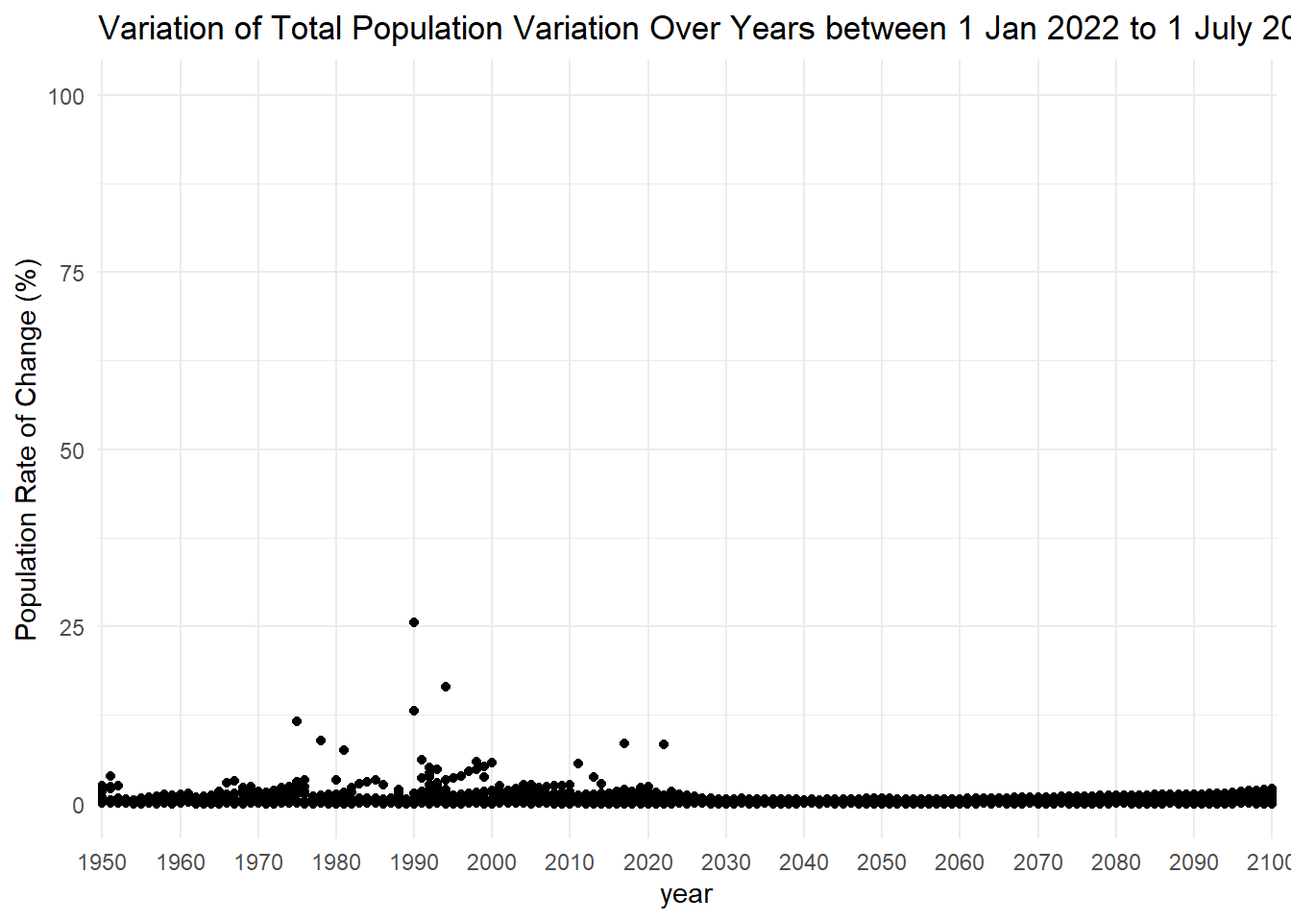
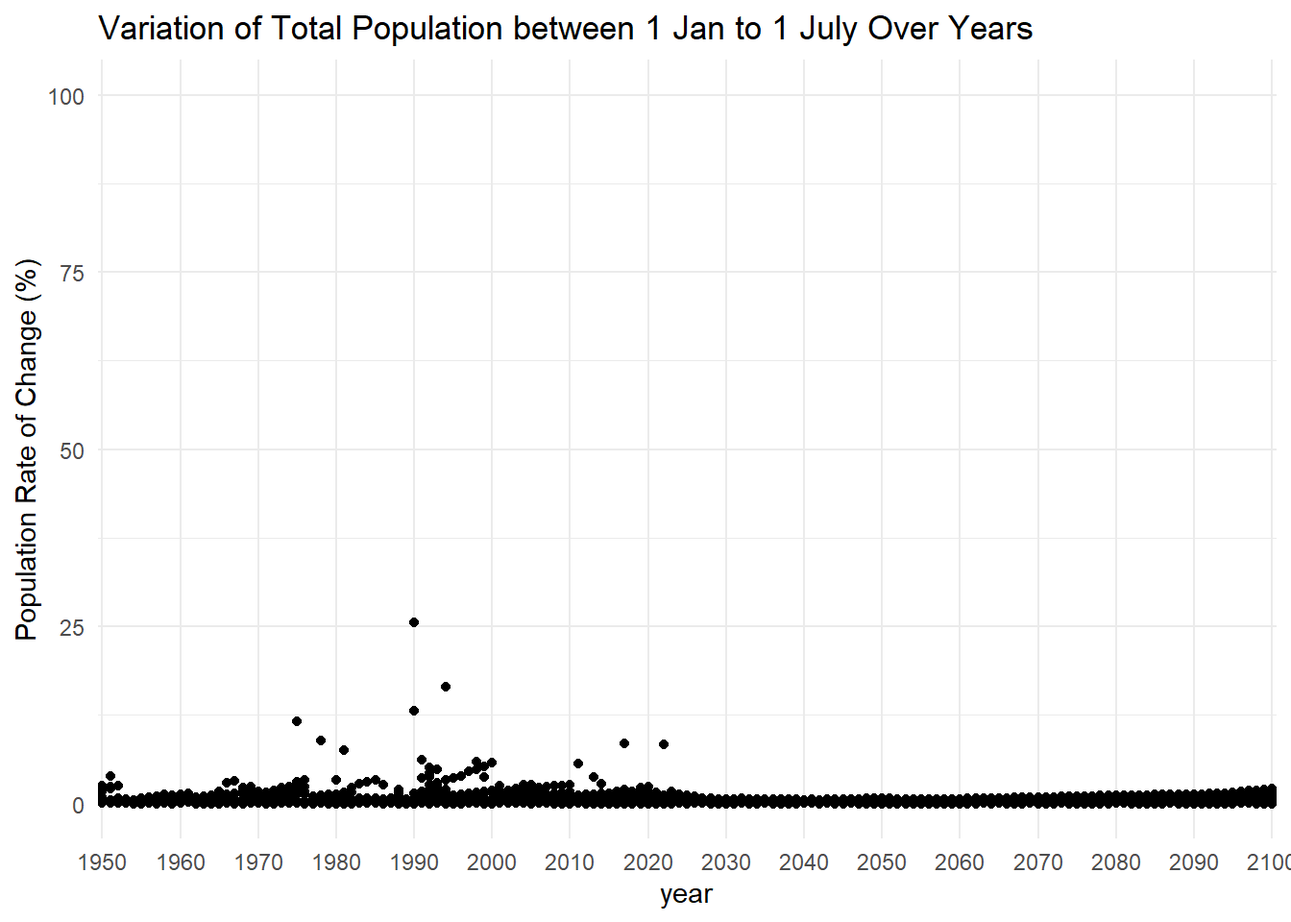
data_cleaning_new_version

Changed region(s): [[0.4062, 0.0, 1.0, 0.0625]]

diff --git a/World Population Prospects.html b/World Population Prospects.html
@@ -101,11 +101,11 @@ pre > code.sourceCode > span > a:first-child::before { text-decoration: underlin
 
 </header>
 
-<section id="quarto" class="level2">
-<h2 class="anchored" data-anchor-id="quarto">Quarto</h2>
-<p>Quarto enables you to weave together content and executable code into a finished document. To learn more about Quarto see <a href="https://quarto.org" class="uri">https://quarto.org</a>.</p>
+<section id="data-cleaning-and-tidying" class="level2">
+<h2 class="anchored" data-anchor-id="data-cleaning-and-tidying">Data Cleaning and Tidying</h2>
+<p>In order to start coding for our project we need to load the necessary libraries for the project, including data manipulation (<strong><code>tidyverse</code></strong>, <strong><code>dplyr</code></strong>, <strong><code>purrr</code></strong>), data visualization (<strong><code>ggplot2</code></strong>), and data cleaning (<strong><code>janitor</code></strong>).</p>
 <div class="cell">
-<div class="sourceCode cell-code" id="cb1"><pre class="sourceCode r code-with-copy"><code class="sourceCode r"><span id="cb1-1"><a href="#cb1-1" aria-hidden="true" tabindex="-1"></a><span class="fu">library</span>(tidyverse)</span></code><button title="Copy to Clipboard" class="code-copy-button"><i class="bi"></i></button></pre></div>
+<div class="sourceCode cell-code" id="cb1"><pre class="sourceCode r code-with-copy"><code class="sourceCode r"><span id="cb1-1"><a href="#cb1-1" aria-hidden="true" tabindex="-1"></a><span class="fu">library</span>(tidyverse) <span class="co"># Comprehensive data manipulation and visualization tools</span></span></code><button title="Copy to Clipboard" class="code-copy-button"><i class="bi"></i></button></pre></div>
 <div class="cell-output cell-output-stderr">
 <pre><code>── Attaching core tidyverse packages ──────────────────────── tidyverse 2.0.0 ──
 ✔ dplyr     1.1.3     ✔ readr     2.1.4
@@ -118,8 +118,8 @@ pre > code.sourceCode > span > a:first-child::before { text-decoration: underlin
 ✖ dplyr::lag()    masks stats::lag()
 ℹ Use the conflicted package (&lt;http://conflicted.r-lib.org/&gt;) to force all conflicts to become errors</code></pre>
 </div>
-<div class="sourceCode cell-code" id="cb3"><pre class="sourceCode r code-with-copy"><code class="sourceCode r"><span id="cb3-1"><a href="#cb3-1" aria-hidden="true" tabindex="-1"></a><span class="fu">library</span>(readxl)</span>
-<span id="cb3-2"><a href="#cb3-2" aria-hidden="true" tabindex="-1"></a><span class="fu">library</span>(curl)</span></code><button title="Copy to Clipboard" class="code-copy-button"><i class="bi"></i></button></pre></div>
+<div class="sourceCode cell-code" id="cb3"><pre class="sourceCode r code-with-copy"><code class="sourceCode r"><span id="cb3-1"><a href="#cb3-1" aria-hidden="true" tabindex="-1"></a><span class="fu">library</span>(readxl)    <span class="co"># Reading Excel files into R</span></span>
+<span id="cb3-2"><a href="#cb3-2" aria-hidden="true" tabindex="-1"></a><span class="fu">library</span>(curl)      <span class="co"># Downloading files from the internet</span></span></code><button title="Copy to Clipboard" class="code-copy-button"><i class="bi"></i></button></pre></div>
 <div class="cell-output cell-output-stderr">
 <pre><code>Warning: package 'curl' was built under R version 4.3.2</code></pre>
 </div>
@@ -132,10 +132,10 @@ The following object is masked from 'package:readr':
 
     parse_date</code></pre>
 </div>
-<div class="sourceCode cell-code" id="cb6"><pre class="sourceCode r code-with-copy"><code class="sourceCode r"><span id="cb6-1"><a href="#cb6-1" aria-hidden="true" tabindex="-1"></a><span class="fu">library</span>(dplyr)</span>
-<span id="cb6-2"><a href="#cb6-2" aria-hidden="true" tabindex="-1"></a><span class="fu">library</span>(purrr)</span>
-<span id="cb6-3"><a href="#cb6-3" aria-hidden="true" tabindex="-1"></a><span class="fu">library</span>(stringr)</span>
-<span id="cb6-4"><a href="#cb6-4" aria-hidden="true" tabindex="-1"></a><span class="fu">library</span>(janitor)</span></code><button title="Copy to Clipboard" class="code-copy-button"><i class="bi"></i></button></pre></div>
+<div class="sourceCode cell-code" id="cb6"><pre class="sourceCode r code-with-copy"><code class="sourceCode r"><span id="cb6-1"><a href="#cb6-1" aria-hidden="true" tabindex="-1"></a><span class="fu">library</span>(dplyr)     <span class="co"># Data manipulation toolkit</span></span>
+<span id="cb6-2"><a href="#cb6-2" aria-hidden="true" tabindex="-1"></a><span class="fu">library</span>(purrr)     <span class="co"># Functional programming tools</span></span>
+<span id="cb6-3"><a href="#cb6-3" aria-hidden="true" tabindex="-1"></a><span class="fu">library</span>(stringr)   <span class="co"># String manipulation functions</span></span>
+<span id="cb6-4"><a href="#cb6-4" aria-hidden="true" tabindex="-1"></a><span class="fu">library</span>(janitor)   <span class="co"># Tools for data cleaning</span></span></code><button title="Copy to Clipboard" class="code-copy-button"><i class="bi"></i></button></pre></div>
 <div class="cell-output cell-output-stderr">
 <pre><code>
 Attaching package: 'janitor'
@@ -144,8 +144,9 @@ The following objects are masked from 'package:stats':
 
     chisq.test, fisher.test</code></pre>
 </div>
-<div class="sourceCode cell-code" id="cb8"><pre class="sourceCode r code-with-copy"><code class="sourceCode r"><span id="cb8-1"><a href="#cb8-1" aria-hidden="true" tabindex="-1"></a><span class="fu">library</span>(ggplot2)</span></code><button title="Copy to Clipboard" class="code-copy-button"><i class="bi"></i></button></pre></div>
+<div class="sourceCode cell-code" id="cb8"><pre class="sourceCode r code-with-copy"><code class="sourceCode r"><span id="cb8-1"><a href="#cb8-1" aria-hidden="true" tabindex="-1"></a><span class="fu">library</span>(ggplot2)   <span class="co"># Data visualization using Grammar of Graphics</span></span></code><button title="Copy to Clipboard" class="code-copy-button"><i class="bi"></i></button></pre></div>
 </div>
+<p>The demographic data is obtained from an Excel file accessible via a specified URL. The file is downloaded utilizing the <strong>curl_download</strong> function, and the sheets of interest are identified.</p>
 <div class="cell">
 <div class="sourceCode cell-code" id="cb9"><pre class="sourceCode r code-with-copy"><code class="sourceCode r"><span id="cb9-1"><a href="#cb9-1" aria-hidden="true" tabindex="-1"></a><span class="co"># Specify the web address of the Excel file</span></span>
 <span id="cb9-2"><a href="#cb9-2" aria-hidden="true" tabindex="-1"></a>url <span class="ot">&lt;-</span> <span class="st">"https://population.un.org/wpp/Download/Files/1_Indicators%20(Standard)/EXCEL_FILES/1_General/WPP2022_GEN_F01_DEMOGRAPHIC_INDICATORS_COMPACT_REV1.xlsx"</span></span>
@@ -154,6 +155,7 @@ The following objects are masked from 'package:stats':
 <span id="cb9-5"><a href="#cb9-5" aria-hidden="true" tabindex="-1"></a></span>
 <span id="cb9-6"><a href="#cb9-6" aria-hidden="true" tabindex="-1"></a><span class="fu">curl_download</span>(url, <span class="at">destfile =</span> data)</span></code><button title="Copy to Clipboard" class="code-copy-button"><i class="bi"></i></button></pre></div>
 </div>
+<p><strong>Read_clean</strong>, a custom function, is utilized to extract and clear data from individual sheets. Using <strong>clean_names</strong> and <strong>map_df</strong>, the final data is combined into a single data frame and standardized column names are established.</p>
 <div class="cell">
 <div class="sourceCode cell-code" id="cb10"><pre class="sourceCode r code-with-copy"><code class="sourceCode r"><span id="cb10-1"><a href="#cb10-1" aria-hidden="true" tabindex="-1"></a><span class="co"># Downloaded sheets</span></span>
 <span id="cb10-2"><a href="#cb10-2" aria-hidden="true" tabindex="-1"></a>sheets <span class="ot">&lt;-</span> <span class="fu">excel_sheets</span>(data)</span>
@@ -163,39 +165,39 @@ The following objects are masked from 'package:stats':
 <span id="cb10-6"><a href="#cb10-6" aria-hidden="true" tabindex="-1"></a></span>
 <span id="cb10-7"><a href="#cb10-7" aria-hidden="true" tabindex="-1"></a><span class="co"># Function to read and clean data from a sheet</span></span>
 <span id="cb10-8"><a href="#cb10-8" aria-hidden="true" tabindex="-1"></a>read_clean <span class="ot">&lt;-</span> <span class="cf">function</span>(file_path, sheet) {</span>
-<span id="cb10-9"><a href="#cb10-9" aria-hidden="true" tabindex="-1"></a>  <span class="fu">read_excel</span>(file_path, <span class="at">sheet =</span> sheet, <span class="at">skip =</span> <span class="dv">16</span>, <span class="at">col_types =</span> <span class="st">"text"</span>) <span class="sc">|&gt;</span> </span>
-<span id="cb10-10"><a href="#cb10-10" aria-hidden="true" tabindex="-1"></a>    <span class="fu">mutate</span>(<span class="at">type =</span> sheet)</span>
-<span id="cb10-11"><a href="#cb10-11" aria-hidden="true" tabindex="-1"></a>}</span>
-<span id="cb10-12"><a href="#cb10-12" aria-hidden="true" tabindex="-1"></a></span>
-<span id="cb10-13"><a href="#cb10-13" aria-hidden="true" tabindex="-1"></a><span class="co"># Read and clean selected sheets, then bind them into a single data frame</span></span>
-<span id="cb10-14"><a href="#cb10-14" aria-hidden="true" tabindex="-1"></a>raw_data <span class="ot">&lt;-</span> <span class="fu">map_df</span>(selected_sheets, <span class="sc">~</span><span class="fu">read_clean</span>(data, .)) <span class="sc">|&gt;</span> </span>
-<span id="cb10-15"><a href="#cb10-15" aria-hidden="true" tabindex="-1"></a>  <span class="fu">clean_names</span>()</span></code><button title="Copy to Clipboard" class="code-copy-button"><i class="bi"></i></button></pre></div>
+<span id="cb10-9"><a href="#cb10-9" aria-hidden="true" tabindex="-1"></a>  <span class="fu">read_excel</span>(file_path, <span class="at">sheet =</span> sheet, <span class="at">skip =</span> <span class="dv">16</span>, <span class="at">col_types =</span> <span class="st">"text"</span>)</span>
+<span id="cb10-10"><a href="#cb10-10" aria-hidden="true" tabindex="-1"></a>}</span>
+<span id="cb10-11"><a href="#cb10-11" aria-hidden="true" tabindex="-1"></a></span>
+<span id="cb10-12"><a href="#cb10-12" aria-hidden="true" tabindex="-1"></a><span class="co"># Read and clean selected sheets, then bind them into a single data frame</span></span>
+<span id="cb10-13"><a href="#cb10-13" aria-hidden="true" tabindex="-1"></a>raw_data <span class="ot">&lt;-</span> <span class="fu">map_df</span>(selected_sheets, <span class="sc">~</span><span class="fu">read_clean</span>(data, .)) <span class="sc">|&gt;</span> </span>
+<span id="cb10-14"><a href="#cb10-14" aria-hidden="true" tabindex="-1"></a>  <span class="fu">clean_names</span>()</span></code><button title="Copy to Clipboard" class="code-copy-button"><i class="bi"></i></button></pre></div>
 </div>
+<p>In this stage, we filter out rows with a specific type (‘Label/Separator’).</p>
 <div class="cell">
 <div class="sourceCode cell-code" id="cb11"><pre class="sourceCode r code-with-copy"><code class="sourceCode r"><span id="cb11-1"><a href="#cb11-1" aria-hidden="true" tabindex="-1"></a><span class="co"># Creating a new DataFrame without rows where 'type' is 'Label/Separator'</span></span>
 <span id="cb11-2"><a href="#cb11-2" aria-hidden="true" tabindex="-1"></a>raw_data_wo_ls <span class="ot">&lt;-</span> <span class="fu">subset</span>(raw_data, type <span class="sc">!=</span> <span class="st">"Label/Separator"</span>)</span></code><button title="Copy to Clipboard" class="code-copy-button"><i class="bi"></i></button></pre></div>
 </div>
+<p>We also convert population columns to numeric format and calculate the rate of change between January 1 and July 1 populations. The resulting data frame, <strong><code>sorted_data</code></strong>, is organized by year for further analysis.</p>
 <div class="cell">
 <div class="sourceCode cell-code" id="cb12"><pre class="sourceCode r code-with-copy"><code class="sourceCode r"><span id="cb12-1"><a href="#cb12-1" aria-hidden="true" tabindex="-1"></a>raw_data_wo_ls<span class="sc">$</span>total_population_as_of_1_january_thousands <span class="ot">&lt;-</span> <span class="fu">as.numeric</span>(raw_data_wo_ls<span class="sc">$</span>total_population_as_of_1_january_thousands)</span>
 <span id="cb12-2"><a href="#cb12-2" aria-hidden="true" tabindex="-1"></a>raw_data_wo_ls<span class="sc">$</span>total_population_as_of_1_july_thousands <span class="ot">&lt;-</span> <span class="fu">as.numeric</span>(raw_data_wo_ls<span class="sc">$</span>total_population_as_of_1_july_thousands)</span>
 <span id="cb12-3"><a href="#cb12-3" aria-hidden="true" tabindex="-1"></a></span>
-<span id="cb12-4"><a href="#cb12-4" aria-hidden="true" tabindex="-1"></a></span>
-<span id="cb12-5"><a href="#cb12-5" aria-hidden="true" tabindex="-1"></a></span>
-<span id="cb12-6"><a href="#cb12-6" aria-hidden="true" tabindex="-1"></a><span class="co"># Group by year and arrange by year</span></span>
-<span id="cb12-7"><a href="#cb12-7" aria-hidden="true" tabindex="-1"></a>sorted_data <span class="ot">&lt;-</span> raw_data_wo_ls <span class="sc">|&gt;</span> </span>
-<span id="cb12-8"><a href="#cb12-8" aria-hidden="true" tabindex="-1"></a>  <span class="fu">mutate</span>(<span class="at">rate_of_change =</span> ((total_population_as_of_1_january_thousands <span class="sc">-</span> total_population_as_of_1_july_thousands) <span class="sc">/</span> total_population_as_of_1_january_thousands) <span class="sc">*</span> <span class="dv">100</span>) <span class="sc">|&gt;</span>  </span>
-<span id="cb12-9"><a href="#cb12-9" aria-hidden="true" tabindex="-1"></a>  <span class="fu">select</span>(rate_of_change, <span class="fu">everything</span>()) <span class="sc">|&gt;</span> </span>
-<span id="cb12-10"><a href="#cb12-10" aria-hidden="true" tabindex="-1"></a>  <span class="fu">group_by</span>(year) <span class="sc">|&gt;</span> </span>
-<span id="cb12-11"><a href="#cb12-11" aria-hidden="true" tabindex="-1"></a>  <span class="fu">arrange</span>(year) <span class="sc">|&gt;</span> </span>
-<span id="cb12-12"><a href="#cb12-12" aria-hidden="true" tabindex="-1"></a>  <span class="fu">ungroup</span>()</span></code><button title="Copy to Clipboard" class="code-copy-button"><i class="bi"></i></button></pre></div>
+<span id="cb12-4"><a href="#cb12-4" aria-hidden="true" tabindex="-1"></a><span class="co"># Group by year and arrange by year</span></span>
+<span id="cb12-5"><a href="#cb12-5" aria-hidden="true" tabindex="-1"></a>sorted_data <span class="ot">&lt;-</span> raw_data_wo_ls <span class="sc">|&gt;</span> </span>
+<span id="cb12-6"><a href="#cb12-6" aria-hidden="true" tabindex="-1"></a>  <span class="fu">mutate</span>(<span class="at">rate_of_change =</span> ((total_population_as_of_1_january_thousands <span class="sc">-</span> total_population_as_of_1_july_thousands) <span class="sc">/</span> total_population_as_of_1_january_thousands) <span class="sc">*</span> <span class="dv">100</span>) <span class="sc">|&gt;</span>  </span>
+<span id="cb12-7"><a href="#cb12-7" aria-hidden="true" tabindex="-1"></a>  <span class="fu">select</span>(rate_of_change, <span class="fu">everything</span>()) <span class="sc">|&gt;</span> </span>
+<span id="cb12-8"><a href="#cb12-8" aria-hidden="true" tabindex="-1"></a>  <span class="fu">group_by</span>(year) <span class="sc">|&gt;</span> </span>
+<span id="cb12-9"><a href="#cb12-9" aria-hidden="true" tabindex="-1"></a>  <span class="fu">arrange</span>(year) <span class="sc">|&gt;</span> </span>
+<span id="cb12-10"><a href="#cb12-10" aria-hidden="true" tabindex="-1"></a>  <span class="fu">ungroup</span>()</span></code><button title="Copy to Clipboard" class="code-copy-button"><i class="bi"></i></button></pre></div>
 </div>
+<p>To visually explore the variation in the total population rate of change over the years, we use the <strong><code>ggplot2</code></strong> package. A scatter plot is created according to years.</p>
 <div class="cell">
 <div class="sourceCode cell-code" id="cb13"><pre class="sourceCode r code-with-copy"><code class="sourceCode r"><span id="cb13-1"><a href="#cb13-1" aria-hidden="true" tabindex="-1"></a><span class="co"># Create a ggplot with the specified columns</span></span>
 <span id="cb13-2"><a href="#cb13-2" aria-hidden="true" tabindex="-1"></a><span class="fu">ggplot</span>(sorted_data, <span class="fu">aes</span>(<span class="at">x =</span> year, <span class="at">y =</span> rate_of_change)) <span class="sc">+</span></span>
 <span id="cb13-3"><a href="#cb13-3" aria-hidden="true" tabindex="-1"></a>  <span class="fu">geom_point</span>() <span class="sc">+</span></span>
 <span id="cb13-4"><a href="#cb13-4" aria-hidden="true" tabindex="-1"></a>  <span class="fu">scale_y_continuous</span>(<span class="at">name =</span> <span class="st">"Population Rate of Change (%)"</span>, </span>
 <span id="cb13-5"><a href="#cb13-5" aria-hidden="true" tabindex="-1"></a>                     <span class="at">limits =</span> <span class="fu">c</span>(<span class="dv">0</span>, <span class="dv">100</span>))<span class="sc">+</span></span>
-<span id="cb13-6"><a href="#cb13-6" aria-hidden="true" tabindex="-1"></a>  <span class="fu">labs</span>(<span class="at">title =</span> <span class="st">"Variation of Total Population Variation Over Years between 1 Jan 2022 to 1 July 2022"</span>) <span class="sc">+</span></span>
+<span id="cb13-6"><a href="#cb13-6" aria-hidden="true" tabindex="-1"></a>  <span class="fu">labs</span>(<span class="at">title =</span> <span class="st">"Variation of Total Population between 1 Jan to 1 July Over Years"</span>) <span class="sc">+</span></span>
 <span id="cb13-7"><a href="#cb13-7" aria-hidden="true" tabindex="-1"></a>  <span class="fu">theme_minimal</span>()<span class="sc">+</span></span>
 <span id="cb13-8"><a href="#cb13-8" aria-hidden="true" tabindex="-1"></a>  <span class="fu">scale_x_discrete</span>(<span class="at">breaks =</span> <span class="fu">seq</span>(<span class="dv">1950</span>, <span class="dv">2100</span>, <span class="at">by =</span> <span class="dv">10</span>))</span></code><button title="Copy to Clipboard" class="code-copy-button"><i class="bi"></i></button></pre></div>
 <div class="cell-output cell-output-stderr">
@@ -205,6 +207,8 @@ The following objects are masked from 'package:stats':
 <p><img src="World-Population-Prospects_files/figure-html/unnamed-chunk-6-1.png" class="img-fluid" width="672"></p>
 </div>
 </div>
+<p>After an in-depth examination of the percentage variation in populations between January 1 and July 1, it became apparent that, aside from a few outliers, the rate of change across the six time periods is not significantly pronounced. In light of this observation, we proceeded with a data reduction process to streamline our dataset for a more focused analysis. This involved excluding specific columns that were deemed unnecessary for our current analytical objectives.</p>
+<p>This reduction aimed to simplify the dataset, making it more manageable for subsequent analyses while retaining the essential information for our research</p>
 <div class="cell">
 <div class="sourceCode cell-code" id="cb15"><pre class="sourceCode r code-with-copy"><code class="sourceCode r"><span id="cb15-1"><a href="#cb15-1" aria-hidden="true" tabindex="-1"></a><span class="co"># Creating a new DataFrame without specific columns</span></span>
 <span id="cb15-2"><a href="#cb15-2" aria-hidden="true" tabindex="-1"></a>raw_data_reduced <span class="ot">&lt;-</span> raw_data_wo_ls <span class="sc">|&gt;</span> </span>
@@ -216,56 +220,93 @@ The following objects are masked from 'package:stats':
 <span id="cb15-8"><a href="#cb15-8" aria-hidden="true" tabindex="-1"></a>         <span class="sc">-</span>parent_code,</span>
 <span id="cb15-9"><a href="#cb15-9" aria-hidden="true" tabindex="-1"></a>         <span class="sc">-</span>notes,</span>
 <span id="cb15-10"><a href="#cb15-10" aria-hidden="true" tabindex="-1"></a>         <span class="sc">-</span>location_code</span>
-<span id="cb15-11"><a href="#cb15-11" aria-hidden="true" tabindex="-1"></a>         )</span></code><button title="Copy to Clipboard" class="code-copy-button"><i class="bi"></i></button></pre></div>
-</div>
-<div class="cell">
-<div class="sourceCode cell-code" id="cb16"><pre class="sourceCode r code-with-copy"><code class="sourceCode r"><span id="cb16-1"><a href="#cb16-1" aria-hidden="true" tabindex="-1"></a>raw_data_rounded <span class="ot">&lt;-</span> raw_data_reduced <span class="sc">|&gt;</span> </span>
-<span id="cb16-2"><a href="#cb16-2" aria-hidden="true" tabindex="-1"></a>  <span class="fu">mutate_at</span>(<span class="fu">vars</span>(<span class="fu">names</span>(raw_data_reduced)[<span class="dv">4</span><span class="sc">:</span><span class="fu">ncol</span>(raw_data_reduced)]), as.numeric) <span class="sc">|&gt;</span> </span>
-<span id="cb16-3"><a href="#cb16-3" aria-hidden="true" tabindex="-1"></a>  <span class="fu">mutate_at</span>(<span class="fu">vars</span>(<span class="fu">names</span>(raw_data_reduced)[<span class="dv">4</span><span class="sc">:</span><span class="fu">ncol</span>(raw_data_reduced)]), <span class="sc">~</span><span class="fu">round</span>(., <span class="dv">3</span>))</span></code><button title="Copy to Clipboard" class="code-copy-button"><i class="bi"></i></button></pre></div>
-<div class="cell-output cell-output-stderr">
-<pre><code>Warning: There were 50 warnings in `mutate()`.
-The first warning was:
-ℹ In argument: `male_population_as_of_1_july_thousands =
-  .Primitive("as.double")(male_population_as_of_1_july_thousands)`.
-Caused by warning:
-! NAs introduced by coercion
-ℹ Run `dplyr::last_dplyr_warnings()` to see the 49 remaining warnings.</code></pre>
-</div>
-</div>
-<div class="cell">
-<div class="sourceCode cell-code" id="cb18"><pre class="sourceCode r code-with-copy"><code class="sourceCode r"><span id="cb18-1"><a href="#cb18-1" aria-hidden="true" tabindex="-1"></a>total_na_count <span class="ot">&lt;-</span> <span class="fu">sum</span>(<span class="fu">is.na</span>(raw_data))</span>
-<span id="cb18-2"><a href="#cb18-2" aria-hidden="true" tabindex="-1"></a></span>
-<span id="cb18-3"><a href="#cb18-3" aria-hidden="true" tabindex="-1"></a><span class="fu">print</span>(total_na_count)</span></code><button title="Copy to Clipboard" class="code-copy-button"><i class="bi"></i></button></pre></div>
+<span id="cb15-11"><a href="#cb15-11" aria-hidden="true" tabindex="-1"></a>         )</span>
+<span id="cb15-12"><a href="#cb15-12" aria-hidden="true" tabindex="-1"></a></span>
+<span id="cb15-13"><a href="#cb15-13" aria-hidden="true" tabindex="-1"></a>total_na_count <span class="ot">&lt;-</span> <span class="fu">sum</span>(<span class="fu">is.na</span>(raw_data_reduced))</span>
+<span id="cb15-14"><a href="#cb15-14" aria-hidden="true" tabindex="-1"></a></span>
+<span id="cb15-15"><a href="#cb15-15" aria-hidden="true" tabindex="-1"></a><span class="fu">print</span>(total_na_count)</span></code><button title="Copy to Clipboard" class="code-copy-button"><i class="bi"></i></button></pre></div>
 <div class="cell-output cell-output-stdout">
-<pre><code>[1] 47150</code></pre>
-</div>
-<div class="sourceCode cell-code" id="cb20"><pre class="sourceCode r code-with-copy"><code class="sourceCode r"><span id="cb20-1"><a href="#cb20-1" aria-hidden="true" tabindex="-1"></a>raw_data_rounded_2 <span class="ot">&lt;-</span> raw_data_rounded <span class="sc">|&gt;</span> </span>
-<span id="cb20-2"><a href="#cb20-2" aria-hidden="true" tabindex="-1"></a>  <span class="fu">mutate_all</span>(<span class="sc">~</span><span class="fu">ifelse</span>(. <span class="sc">==</span> <span class="st">"..."</span>, <span class="cn">NA</span>, .)) </span>
-<span id="cb20-3"><a href="#cb20-3" aria-hidden="true" tabindex="-1"></a></span>
-<span id="cb20-4"><a href="#cb20-4" aria-hidden="true" tabindex="-1"></a>total_na_count_2 <span class="ot">&lt;-</span> <span class="fu">sum</span>(<span class="fu">is.na</span>(raw_data_rounded_2))</span>
-<span id="cb20-5"><a href="#cb20-5" aria-hidden="true" tabindex="-1"></a></span>
-<span id="cb20-6"><a href="#cb20-6" aria-hidden="true" tabindex="-1"></a><span class="fu">print</span>(total_na_count_2)</span></code><button title="Copy to Clipboard" class="code-copy-button"><i class="bi"></i></button></pre></div>
-<div class="cell-output cell-output-stdout">
-<pre><code>[1] 69314</code></pre>
+<pre><code>[1] 0</code></pre>
 </div>
 </div>
-</section>
-<section id="running-code" class="level2">
-<h2 class="anchored" data-anchor-id="running-code">Running Code</h2>
-<p>When you click the <strong>Render</strong> button a document will be generated that includes both content and the output of embedded code. You can embed code like this:</p>
+<p>Upon initial analysis, the results of the <strong><code>total_na_count</code></strong> indicated the absence of any missing values. However, during the exploration of the scatter plot, a warning surfaced, indicating the presence of rows with missing values. This discrepancy prompted a closer examination of the data quality.</p>
+<p>Further investigation revealed that the missing values were not explicitly defined as ‘NA.’ Instead, an unconventional placeholder, represented by three dots (“…”), was used to indicate missing data in the initial untidy dataset.</p>
+<p>To rectify this issue, we took a two-step approach:</p>
+<ol type="1">
+<li><p><strong>Replacing “…” with NA:</strong> All occurrences of the three dots (“…”) in the dataset were replaced with the standard ‘NA’ representation. This step was crucial for ensuring uniformity and accuracy in identifying missing values across the dataset.</p></li>
+<li><p><strong>Conversion to Numeric:</strong> Subsequently, we converted all related columns with numerical values from character (string) to numeric format. This conversion ensured that the data, now with consistent missing value representation, could be accurately processed and analyzed.</p></li>
+</ol>
 <div class="cell">
-<div class="sourceCode cell-code" id="cb22"><pre class="sourceCode r code-with-copy"><code class="sourceCode r"><span id="cb22-1"><a href="#cb22-1" aria-hidden="true" tabindex="-1"></a><span class="dv">1</span> <span class="sc">+</span> <span class="dv">1</span></span></code><button title="Copy to Clipboard" class="code-copy-button"><i class="bi"></i></button></pre></div>
+<div class="sourceCode cell-code" id="cb17"><pre class="sourceCode r code-with-copy"><code class="sourceCode r"><span id="cb17-1"><a href="#cb17-1" aria-hidden="true" tabindex="-1"></a>raw_data_rounded <span class="ot">&lt;-</span> raw_data_reduced <span class="sc">|&gt;</span> </span>
+<span id="cb17-2"><a href="#cb17-2" aria-hidden="true" tabindex="-1"></a>  <span class="fu">mutate</span>(<span class="fu">across</span>(<span class="fu">everything</span>(), as.character)) <span class="sc">|&gt;</span> </span>
+<span id="cb17-3"><a href="#cb17-3" aria-hidden="true" tabindex="-1"></a>  <span class="fu">mutate_all</span>(<span class="sc">~</span><span class="fu">ifelse</span>(. <span class="sc">==</span> <span class="st">"..."</span>, <span class="cn">NA</span>, .)) <span class="sc">|&gt;</span> </span>
+<span id="cb17-4"><a href="#cb17-4" aria-hidden="true" tabindex="-1"></a>  <span class="fu">mutate_at</span>(<span class="fu">vars</span>(<span class="fu">names</span>(raw_data_reduced)[<span class="dv">4</span><span class="sc">:</span><span class="fu">ncol</span>(raw_data_reduced)]), as.numeric, <span class="sc">~</span><span class="fu">round</span>(., <span class="dv">3</span>)) </span>
+<span id="cb17-5"><a href="#cb17-5" aria-hidden="true" tabindex="-1"></a></span>
+<span id="cb17-6"><a href="#cb17-6" aria-hidden="true" tabindex="-1"></a></span>
+<span id="cb17-7"><a href="#cb17-7" aria-hidden="true" tabindex="-1"></a>total_na_count_after <span class="ot">&lt;-</span> <span class="fu">sum</span>(<span class="fu">is.na</span>(raw_data_rounded))</span>
+<span id="cb17-8"><a href="#cb17-8" aria-hidden="true" tabindex="-1"></a></span>
+<span id="cb17-9"><a href="#cb17-9" aria-hidden="true" tabindex="-1"></a><span class="fu">print</span>(total_na_count_after)</span></code><button title="Copy to Clipboard" class="code-copy-button"><i class="bi"></i></button></pre></div>
 <div class="cell-output cell-output-stdout">
-<pre><code>[1] 2</code></pre>
+<pre><code>[1] 26128</code></pre>
 </div>
 </div>
-<p>You can add options to executable code like this</p>
+<p>We filter the data by level, including Country/Area, Sub-Region, Region, Development Group, and Income Group, in order to conduct a more comprehensive analysis. A distinct data frame is utilized to maintain each filtered dataset, which facilitates targeted analyses of particular demographic categories.</p>
 <div class="cell">
-<div class="cell-output cell-output-stdout">
-<pre><code>[1] 4</code></pre>
+<div class="sourceCode cell-code" id="cb19"><pre class="sourceCode r code-with-copy"><code class="sourceCode r"><span id="cb19-1"><a href="#cb19-1" aria-hidden="true" tabindex="-1"></a><span class="co"># Filtering and Creating New Columns for Country/Area Level:</span></span>
+<span id="cb19-2"><a href="#cb19-2" aria-hidden="true" tabindex="-1"></a>country_area_level_filtered <span class="ot">&lt;-</span> raw_data_rounded <span class="sc">|&gt;</span></span>
+<span id="cb19-3"><a href="#cb19-3" aria-hidden="true" tabindex="-1"></a>  <span class="fu">filter</span>(type <span class="sc">==</span> <span class="st">"Country/Area"</span>) <span class="sc">|&gt;</span></span>
+<span id="cb19-4"><a href="#cb19-4" aria-hidden="true" tabindex="-1"></a>  <span class="fu">mutate</span>(<span class="at">country_and_area =</span> region_subregion_country_or_area) <span class="sc">|&gt;</span> </span>
+<span id="cb19-5"><a href="#cb19-5" aria-hidden="true" tabindex="-1"></a>  <span class="fu">select</span>(<span class="sc">-</span>region_subregion_country_or_area) <span class="sc">|&gt;</span> </span>
+<span id="cb19-6"><a href="#cb19-6" aria-hidden="true" tabindex="-1"></a>  <span class="fu">relocate</span>(<span class="st">"country_and_area"</span>, <span class="at">.after =</span> <span class="st">"variant"</span>)</span>
+<span id="cb19-7"><a href="#cb19-7" aria-hidden="true" tabindex="-1"></a></span>
+<span id="cb19-8"><a href="#cb19-8" aria-hidden="true" tabindex="-1"></a><span class="co"># The data is filtered to include only entries with the type "Country/Area."</span></span>
+<span id="cb19-9"><a href="#cb19-9" aria-hidden="true" tabindex="-1"></a><span class="co"># A new column 'country_and_area' is created, containing information from 'region_subregion_country_or_area.'</span></span>
+<span id="cb19-10"><a href="#cb19-10" aria-hidden="true" tabindex="-1"></a><span class="co"># Unnecessary columns are deselected, and 'country_and_area' is relocated after the 'variant' column.</span></span>
+<span id="cb19-11"><a href="#cb19-11" aria-hidden="true" tabindex="-1"></a></span>
+<span id="cb19-12"><a href="#cb19-12" aria-hidden="true" tabindex="-1"></a><span class="co"># Filtering and Creating New Columns for Sub-Region Level:</span></span>
+<span id="cb19-13"><a href="#cb19-13" aria-hidden="true" tabindex="-1"></a>sub_region_level_filtered <span class="ot">&lt;-</span> raw_data_rounded <span class="sc">|&gt;</span></span>
+<span id="cb19-14"><a href="#cb19-14" aria-hidden="true" tabindex="-1"></a>  <span class="fu">filter</span>(<span class="fu">str_detect</span>(type, <span class="fu">regex</span>(<span class="st">"region"</span>, <span class="at">ignore_case =</span> <span class="cn">FALSE</span>))) <span class="sc">|&gt;</span> </span>
+<span id="cb19-15"><a href="#cb19-15" aria-hidden="true" tabindex="-1"></a>  <span class="fu">mutate</span>(<span class="at">sub_region =</span> region_subregion_country_or_area) <span class="sc">|&gt;</span> </span>
+<span id="cb19-16"><a href="#cb19-16" aria-hidden="true" tabindex="-1"></a>  <span class="fu">select</span>(<span class="sc">-</span>region_subregion_country_or_area) <span class="sc">|&gt;</span> </span>
+<span id="cb19-17"><a href="#cb19-17" aria-hidden="true" tabindex="-1"></a>  <span class="fu">relocate</span>(<span class="st">"sub_region"</span>, <span class="at">.after =</span> <span class="st">"variant"</span>)</span>
+<span id="cb19-18"><a href="#cb19-18" aria-hidden="true" tabindex="-1"></a></span>
+<span id="cb19-19"><a href="#cb19-19" aria-hidden="true" tabindex="-1"></a><span class="co"># Entries containing the term "region" (case-insensitive) are filtered, indicating the Sub-Region level.</span></span>
+<span id="cb19-20"><a href="#cb19-20" aria-hidden="true" tabindex="-1"></a><span class="co"># A new column 'sub_region' is created, capturing information from 'region_subregion_country_or_area.'</span></span>
+<span id="cb19-21"><a href="#cb19-21" aria-hidden="true" tabindex="-1"></a><span class="co"># Unnecessary columns are deselected, and 'sub_region' is relocated after the 'variant' column.</span></span>
+<span id="cb19-22"><a href="#cb19-22" aria-hidden="true" tabindex="-1"></a></span>
+<span id="cb19-23"><a href="#cb19-23" aria-hidden="true" tabindex="-1"></a><span class="co"># Filtering and Creating New Columns for Region Level:</span></span>
+<span id="cb19-24"><a href="#cb19-24" aria-hidden="true" tabindex="-1"></a>region_level_filtered <span class="ot">&lt;-</span> raw_data_rounded <span class="sc">|&gt;</span></span>
+<span id="cb19-25"><a href="#cb19-25" aria-hidden="true" tabindex="-1"></a>  <span class="fu">filter</span>(<span class="fu">str_detect</span>(type, <span class="fu">regex</span>(<span class="st">"Region|World"</span>, <span class="at">ignore_case =</span> <span class="cn">FALSE</span>))) <span class="sc">|&gt;</span> </span>
+<span id="cb19-26"><a href="#cb19-26" aria-hidden="true" tabindex="-1"></a>  <span class="fu">mutate</span>(<span class="at">region =</span> region_subregion_country_or_area) <span class="sc">|&gt;</span> </span>
+<span id="cb19-27"><a href="#cb19-27" aria-hidden="true" tabindex="-1"></a>  <span class="fu">select</span>(<span class="sc">-</span>region_subregion_country_or_area) <span class="sc">|&gt;</span> </span>
+<span id="cb19-28"><a href="#cb19-28" aria-hidden="true" tabindex="-1"></a>  <span class="fu">relocate</span>(<span class="st">"region"</span>, <span class="at">.after =</span> <span class="st">"variant"</span>)</span>
+<span id="cb19-29"><a href="#cb19-29" aria-hidden="true" tabindex="-1"></a></span>
+<span id="cb19-30"><a href="#cb19-30" aria-hidden="true" tabindex="-1"></a><span class="co"># Entries containing the terms "Region" or "World" (case-insensitive) are filtered, representing the Region level.</span></span>
+<span id="cb19-31"><a href="#cb19-31" aria-hidden="true" tabindex="-1"></a><span class="co"># A new column 'region' is created, extracting information from 'region_subregion_country_or_area.'</span></span>
+<span id="cb19-32"><a href="#cb19-32" aria-hidden="true" tabindex="-1"></a><span class="co"># Unnecessary columns are deselected, and 'region' is relocated after the 'variant' column.</span></span>
+<span id="cb19-33"><a href="#cb19-33" aria-hidden="true" tabindex="-1"></a></span>
+<span id="cb19-34"><a href="#cb19-34" aria-hidden="true" tabindex="-1"></a><span class="co"># Filtering and Creating New Columns for Development Group Level:</span></span>
+<span id="cb19-35"><a href="#cb19-35" aria-hidden="true" tabindex="-1"></a>development_group_level_filtered <span class="ot">&lt;-</span> raw_data_rounded <span class="sc">|&gt;</span></span>
+<span id="cb19-36"><a href="#cb19-36" aria-hidden="true" tabindex="-1"></a>  <span class="fu">filter</span>(<span class="fu">str_detect</span>(type, <span class="fu">regex</span>(<span class="st">"Development Group"</span>, <span class="at">ignore_case =</span> <span class="cn">FALSE</span>))) <span class="sc">|&gt;</span> </span>
+<span id="cb19-37"><a href="#cb19-37" aria-hidden="true" tabindex="-1"></a>  <span class="fu">mutate</span>(<span class="at">development_group =</span> region_subregion_country_or_area) <span class="sc">|&gt;</span> </span>
+<span id="cb19-38"><a href="#cb19-38" aria-hidden="true" tabindex="-1"></a>  <span class="fu">select</span>(<span class="sc">-</span>region_subregion_country_or_area) <span class="sc">|&gt;</span> </span>
+<span id="cb19-39"><a href="#cb19-39" aria-hidden="true" tabindex="-1"></a>  <span class="fu">relocate</span>(<span class="st">"development_group"</span>, <span class="at">.after =</span> <span class="st">"variant"</span>)</span>
+<span id="cb19-40"><a href="#cb19-40" aria-hidden="true" tabindex="-1"></a></span>
+<span id="cb19-41"><a href="#cb19-41" aria-hidden="true" tabindex="-1"></a><span class="co"># Entries containing the term "Development Group" (case-insensitive) are filtered, indicating the Development Group level.</span></span>
+<span id="cb19-42"><a href="#cb19-42" aria-hidden="true" tabindex="-1"></a><span class="co"># A new column 'development_group' is created, capturing information from 'region_subregion_country_or_area.'</span></span>
+<span id="cb19-43"><a href="#cb19-43" aria-hidden="true" tabindex="-1"></a><span class="co"># Unnecessary columns are deselected, and 'development_group' is relocated after the 'variant' column.</span></span>
+<span id="cb19-44"><a href="#cb19-44" aria-hidden="true" tabindex="-1"></a></span>
+<span id="cb19-45"><a href="#cb19-45" aria-hidden="true" tabindex="-1"></a><span class="co"># Filtering and Creating New Columns for Income Group Level:</span></span>
+<span id="cb19-46"><a href="#cb19-46" aria-hidden="true" tabindex="-1"></a>income_group_level_filtered <span class="ot">&lt;-</span> raw_data_rounded <span class="sc">|&gt;</span></span>
+<span id="cb19-47"><a href="#cb19-47" aria-hidden="true" tabindex="-1"></a>  <span class="fu">filter</span>(<span class="fu">str_detect</span>(type, <span class="fu">regex</span>(<span class="st">"Income Group"</span>, <span class="at">ignore_case =</span> <span class="cn">FALSE</span>))) <span class="sc">|&gt;</span> </span>
+<span id="cb19-48"><a href="#cb19-48" aria-hidden="true" tabindex="-1"></a>  <span class="fu">mutate</span>(<span class="at">income_group =</span> region_subregion_country_or_area) <span class="sc">|&gt;</span> </span>
+<span id="cb19-49"><a href="#cb19-49" aria-hidden="true" tabindex="-1"></a>  <span class="fu">select</span>(<span class="sc">-</span>region_subregion_country_or_area) <span class="sc">|&gt;</span> </span>
+<span id="cb19-50"><a href="#cb19-50" aria-hidden="true" tabindex="-1"></a>  <span class="fu">relocate</span>(<span class="st">"income_group"</span>, <span class="at">.after =</span> <span class="st">"variant"</span>)</span>
+<span id="cb19-51"><a href="#cb19-51" aria-hidden="true" tabindex="-1"></a></span>
+<span id="cb19-52"><a href="#cb19-52" aria-hidden="true" tabindex="-1"></a><span class="co"># Entries containing the term "Income Group" (case-insensitive) are filtered, indicating the Income Group level.</span></span>
+<span id="cb19-53"><a href="#cb19-53" aria-hidden="true" tabindex="-1"></a><span class="co"># A new column 'income_group' is created, extracting information from 'region_subregion_country_or_area.'</span></span>
+<span id="cb19-54"><a href="#cb19-54" aria-hidden="true" tabindex="-1"></a><span class="co"># Unnecessary columns are deselected, and 'income_group' is relocated after the 'variant' column.</span></span></code><button title="Copy to Clipboard" class="code-copy-button"><i class="bi"></i></button></pre></div>
 </div>
-</div>
-<p>The <code>echo: false</code> option disables the printing of code (only output is displayed).</p>
 </section>
 
 </main>
